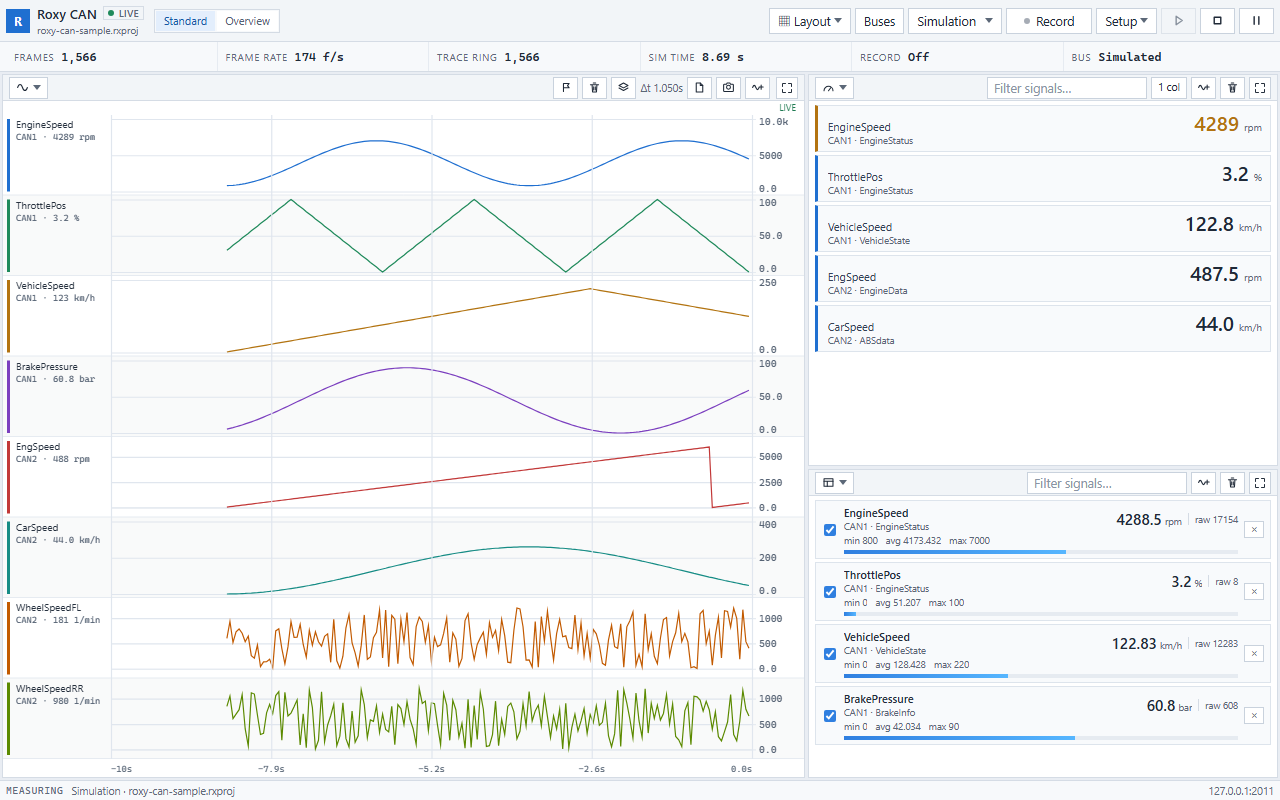
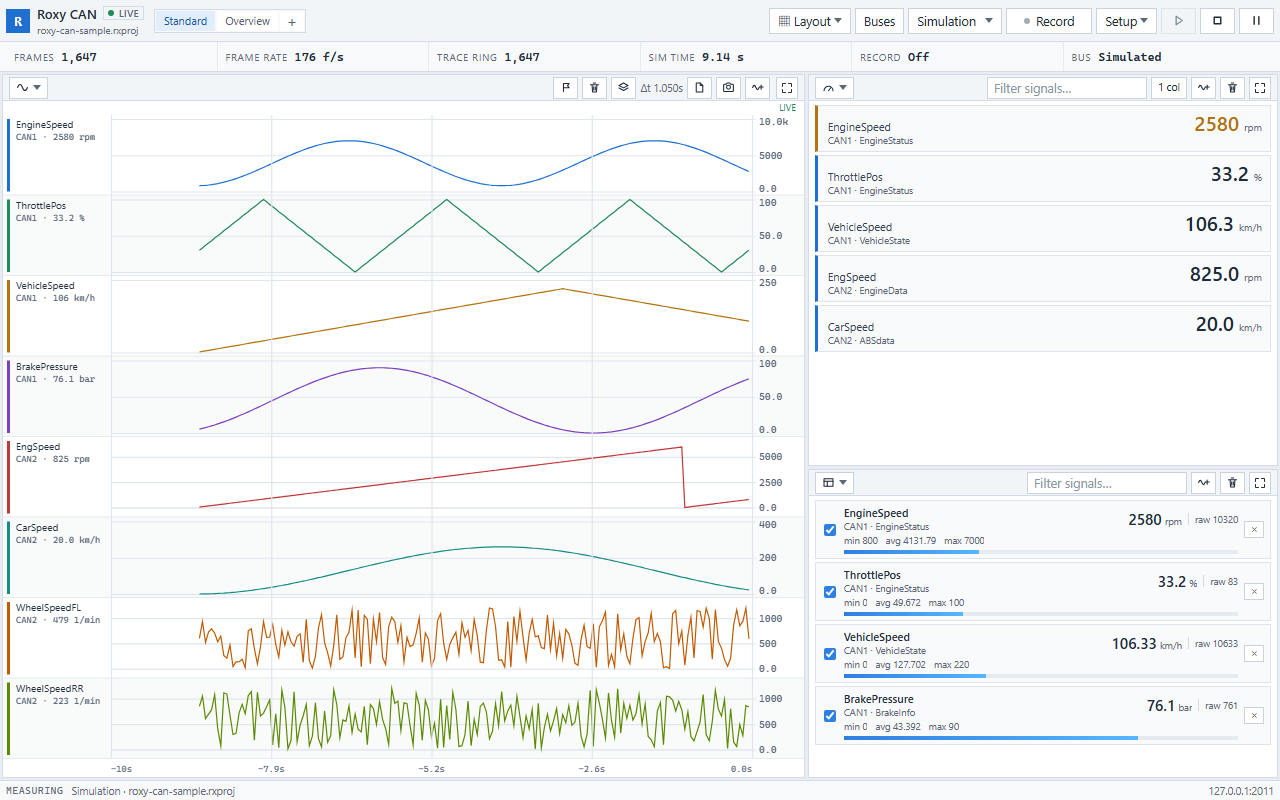
Add a Panel page button and move Edit into the top bar

diff --git a/web/src/app.tsx b/web/src/app.tsx
@@ -141,6 +141,7 @@ import {
 } from "./traceLayout";
 import {
   activePanelPage,
+  addPanelPage,
   addPanelPageFromFile,
   defaultPanelBook,
   exportPanelFile,
@@ -486,6 +487,7 @@ export function App() {
     savedView.panelBook ?? defaultPanelBook(),
   );
   const activePage = activePanelPage(panelBook);
+  const [panelEditing, setPanelEditing] = useState(false);
   // Panel pages only enter the project on Save, so their edits are dirty even
   // when the core's project flag is still clean.
   const [panelDirty, setPanelDirty] = useState(false);
@@ -1846,6 +1848,7 @@ export function App() {
       if (event.altKey && event.shiftKey && key === "p") {
         event.preventDefault();
         setShellMode((old) => (old === "panel" ? "standard" : "panel"));
+        setPanelEditing(false);
         setMaximizedSlot(null);
         return;
       }
@@ -4169,12 +4172,22 @@ export function App() {
 
   const showStandard = () => {
     setShellMode("standard");
+    setPanelEditing(false);
     setMaximizedSlot(null);
   };
 
   const showPanelPage = (id: string) => {
     updatePanelBook(selectPanelPage(panelBook, id));
     setShellMode("panel");
+    setMaximizedSlot(null);
+    setExplorerOpen(false);
+  };
+
+  const newPanelPage = () => {
+    const added = addPanelPage(panelBook);
+    updatePanelBook(added.book);
+    setShellMode("panel");
+    setPanelEditing(true);
     setMaximizedSlot(null);
     setExplorerOpen(false);
   };
@@ -4701,9 +4714,33 @@ export function App() {
               {entry.name}
             </button>
           ))}
+          <button
+            type="button"
+            class="view-add"
+            style={{ padding: "0" }}
+            title="New Panel page"
+            aria-label="New Panel page"
+            onClick={newPanelPage}
+          >
+            +
+          </button>
         </div>
         <div class="actions">
-          {shellMode !== "panel" && (
+          {shellMode === "panel" ? (
+            <button
+              type="button"
+              class={`mini topbar-edit ${panelEditing ? "on" : ""}`}
+              aria-pressed={panelEditing}
+              title={
+                panelEditing
+                  ? "Finish editing and run the Panel"
+                  : "Edit the Panel: move controls and change properties"
+              }
+              onClick={() => setPanelEditing((old) => !old)}
+            >
+              {panelEditing ? "Done" : "Edit"}
+            </button>
+          ) : (
             <MenuButton
               className="top-menu layout-menu"
               menuClass="app-menu-top layout-panel"
@@ -5276,6 +5313,8 @@ export function App() {
             actionNames={pageActionNames}
             view={pageView}
             actionContext={pageActionContext}
+            editing={panelEditing}
+            onEditing={setPanelEditing}
             onBook={updatePanelBook}
             onRun={runPanelAction}
             onToggle={togglePageSysVar}

diff --git a/web/src/components/PagePanel.tsx b/web/src/components/PagePanel.tsx
@@ -9,7 +9,6 @@ import {
   PANEL_MAX_BANDS,
   PANEL_WIDGET_KINDS,
   activePanelPage,
-  addPanelPage,
   addPanelPageFromFile,
   addPanelWidget,
   duplicatePanelPage,
@@ -1629,6 +1628,8 @@ export function PagePanel({
   actionNames,
   view,
   actionContext,
+  editing,
+  onEditing,
   onBook,
   onRun,
   onToggle,
@@ -1644,6 +1645,8 @@ export function PagePanel({
   actionNames: string[];
   view: PanelView;
   actionContext: PanelActionContext;
+  editing: boolean;
+  onEditing: (on: boolean) => void;
   onBook: (book: PanelBook) => void;
   onRun: (widget: PanelButton) => void;
   onToggle: (widget: PanelToggle, on: boolean) => void;
@@ -1653,7 +1656,6 @@ export function PagePanel({
 }) {
   const page = activePanelPage(book);
   const onPage = (next: PanelPage) => onBook(updatePanelPage(book, next));
-  const [editing, setEditing] = useState(false);
   const [fullscreen, setFullscreen] = useState(false);
   const [selected, setSelected] = useState<string | null>(null);
   const [renaming, setRenaming] = useState<{ id: string; name: string } | null>(
@@ -1763,12 +1765,12 @@ export function PagePanel({
       if (selected) {
         setSelected(null);
       } else {
-        setEditing(false);
+        onEditing(false);
       }
     };
     window.addEventListener("keydown", onKey);
     return () => window.removeEventListener("keydown", onKey);
-  }, [editing, selected]);
+  }, [editing, selected, onEditing]);
 
   useEffect(() => {
     if (!fullscreen || editing) return;
@@ -1978,12 +1980,6 @@ export function PagePanel({
     setHistory(EMPTY_HISTORY);
     setClipboard(null);
     setRenaming(null);
-  };
-
-  const newPage = () => {
-    const added = addPanelPage(book);
-    clearPageUi();
-    onBook(added.book);
   };
 
   const openPageMenu = () => {
@@ -2666,13 +2662,6 @@ export function PagePanel({
           )}
           <button
             type="button"
-            class={`mini ${editing ? "on" : ""}`}
-            onClick={() => setEditing((old) => !old)}
-          >
-            {editing ? "Done" : "Edit"}
-          </button>
-          <button
-            type="button"
             class={`mini ${fullscreen ? "on" : ""}`}
             title={fullscreen ? "Exit web fullscreen" : "Fill the browser window"}
             onClick={() => setFullscreen((old) => !old)}
@@ -3001,17 +2990,6 @@ export function PagePanel({
           )}
           {menu.kind === "page" && (
             <>
-              <button
-                type="button"
-                role="menuitem"
-                onClick={() => {
-                  setMenu(null);
-                  newPage();
-                }}
-              >
-                New page
-              </button>
-              <div class="page-menu-sep" role="separator" />
               <button
                 type="button"
                 role="menuitem"

diff --git a/web/src/styles.css b/web/src/styles.css
@@ -405,6 +405,23 @@ select:disabled {
   color: #cfe7ff;
 }
 
+.view-switch .view-add {
+  width: 24px;
+  padding: 0;
+  color: var(--muted);
+  font-size: 15px;
+}
+
+.view-switch .view-add:hover:not(:disabled) {
+  background: rgb(255 255 255 / 6%);
+  color: var(--text, #d9e3ef);
+}
+
+.topbar-edit {
+  height: 26px;
+  padding: 0 10px;
+}
+
 .buses-button {
   display: inline-flex;
   align-items: center;

diff --git a/docs/usage.md b/docs/usage.md
@@ -191,9 +191,9 @@ roxy-can -h                               完整帮助
 
 ## Panel（操作页）
 
-- 顶栏的 **Standard / 页名** 就是模式与页面切换：Standard 一项，后面每个 Panel 页各一项（一页是 `Standard | Overview`，两页就是 `Standard | Overview | Page 2`，共三个标签）。点击页名进入 Panel 并切到该页；键盘 ←/→ 切换（Home/End 到首尾）。画布上方不再另放页签。Edit 下页眉左侧 **⋯** 是页面操作菜单（New page / Rename / Duplicate / Import / Export / Delete；至少保留一页），重命名在页眉就地输入。**含控件的页删除要再点一次确认**（空页直接删），避免误删后撤销不回来。每页有自己的画幅尺寸和控件，切换页面会清空选区、撤销历史和剪贴板，但保留 Edit 模式。
+- 顶栏的 **Standard / 页名** 就是模式与页面切换：Standard 一项，后面每个 Panel 页各一项（一页是 `Standard | Overview`，两页就是 `Standard | Overview | Page 2`，共三个标签）。点击页名进入 Panel 并切到该页；键盘 ←/→ 切换（Home/End 到首尾）。画布上方不再另放页签。顶栏页名后的 **+** 新建一页并直接进入编辑；Edit 下页眉左侧 **⋯** 是当前页的操作菜单（Rename / Duplicate / Import / Export / Delete；至少保留一页），重命名在页眉就地输入。**含控件的页删除要再点一次确认**（空页直接删），避免误删后撤销不回来。每页有自己的画幅尺寸和控件，切换页面会清空选区、撤销历史和剪贴板，但保留 Edit 模式。
 - 顶栏 **Standard / 页名** 进入操作页：固定画布默认 **1280×720**，始终显示 **8px 网格线**；画幅 W×H 在未选中控件时显示于右侧 Panel 属性，按 8px 取整，缩小到会把控件挤出画布时会拒绝；窗口不够大时画布出现滚动条，不缩放、不重排。控件尺寸变化时按钮/数值的字号与内边距按控件大小自适应，长标签省略显示，不需要手工调字号。
-- **Edit** 进入编辑：右侧 **Properties** 栏常驻（栏头显示当前控件类型或 Panel），点控件显示控件属性，点空白显示 **Panel** 属性（画幅 W×H 与控件数），切换选区时画布宽度不变。**+ Add** 菜单添加 Button / Value / Bar / Gauge / Lamp / Toggle / Setpoint，拖动控件移动、拖右下角缩放，位置和尺寸实时吸附网格；最小尺寸按类型，重叠的落点会被拒绝。编辑时控件不触发动作。
+- 顶栏 **Edit / Done**（Panel 模式下占用 Standard 里 Layout 的位置）进入/退出编辑：右侧 **Properties** 栏常驻（栏头显示当前控件类型或 Panel），点控件显示控件属性，点空白显示 **Panel** 属性（画幅 W×H 与控件数），切换选区时画布宽度不变。**+ Add** 菜单添加 Button / Value / Bar / Gauge / Lamp / Toggle / Setpoint，拖动控件移动、拖右下角缩放，位置和尺寸实时吸附网格；最小尺寸按类型，重叠的落点会被拒绝。编辑时控件不触发动作。
 - 选中控件后右侧属性栏按类型编辑：**Button** 的 **On click** 二选一、互斥——**Send message**（一次发一条 CAN / FlexRay / Ethernet / SOME/IP 报文；CAN 可填 raw 或目录报文，目录报文与 FR/ETH 已知帧可按物理值编码；FR 只注入本会话，ETH/SOME/IP 有实时口时从端口发出，否则只注入本会话；SOME/IP 按 service/method 列出 ARXML 字段，数字/字符串/枚举分别输入，没有描述时退回 `name=value`，union 用 `name.$selector`）或 **Script action**（动作名 + 可选数值参数）；**Value** 填 Source（信号 key、`derived:Name` 或 `sysvar:ns::name`）与小数位，只读显示实时值；**Bar / Gauge** 填 Source、最小值/最大值与小数位，按比例填充并同样可用 **Color bands**；**Lamp** 填 Source、点亮阈值（Lit at or above）与点亮颜色，源值达到阈值时亮起；**Toggle** 填系统变量名，显示 ON/OFF 并写 1/0；**Setpoint** 先选 Target（SysVar 或信号），再填目标、小数位与步进（Step），输入后按 Enter/失焦写入，按对应后端的量程夹取，并可带值触发同名脚本动作。**Color bands** 在所有只读控件上一致：按升序添加上限（`≤`）并为每段选 Neutral / OK / Warning / Critical，可再加一条 `above` 兜底最高段，只改数字/填充颜色、不改卡片底色。属性栏里的 **Duplicate** 与 **Delete** 复制/删除控件。
 - 页面文件：Edit 下页眉 **⋯ → Export page** 把当前页下载成 `.rxpanel`（带格式与版本，不含控件 id），**⋯ → Import page…** 在浏览器里读取文件并作为新页面追加（名称自动去重）。导入严格校验画幅、控件类型、最小尺寸与重叠，任何一条不合格都给出提示且不改动现有页面。
 - 编辑快捷键：**Ctrl+C / Ctrl+V** 复制粘贴（自动找空位并选中副本），**Ctrl+Z** 撤销、**Ctrl+Shift+Z** 或 **Ctrl+Y** 重做（工具条右侧是 ↶ / ↷ 图标按钮），**Delete** 删除选中控件。不做手动微调与对齐工具，位置和尺寸都吸附网格。

diff --git a/README.md b/README.md
@@ -26,7 +26,7 @@ Spec / SOME/IP / Write 都是单实例页面，可放进任意槽位。入口与
 - **DBC 解码**：复用报文只解当前那一组；值表显示枚举文本；浮点信号按位模式解码并带类型标记。
 - **帧模型**：经典 CAN、CAN FD（变长载荷至 64 字节、BRS / ESI）、错误帧、远程帧。Trace 的 Flags 列统一给帧类型，错误行与远程行有底色。
 - **观测面板与布局**：Trace、Messages、Messages stats、Rate、Signals、Monitor、Data、State、Bus load、Spec、SOME/IP、Write 都是单实例页面，用页眉菜单放进 Focus / Split / Main + side / Quad 的任意槽位；选一个已在别处的面板会交换两个槽位，Move to 直接移动当前页。Trace/Messages 有独立过滤与选择；Monitor/Data 页眉可按信号、帧、PDU 或总线过滤，行可拖动排序（行序随工程保存）；Data/Signals 可跨总线勾选信号，Signals 还支持 **Read**（只订阅、不画 lane，游标处读数），信号列表按帧收起，帧头 **All / None** 可批量增删可见信号，曲线一次加入超过 8 条会先确认，页眉相机图标把当前图表导出为带游标注的 PNG；Messages 行可展开查看解码信号（按需解码），长帧可先过滤并只渲染前 50 条。
-- **Panel 操作页**：顶栏 **Standard / 页名** 同时做模式和页面切换（Standard 后每个 Panel 页一项，两页就是三个标签）；每页独立画幅与控件；固定画布默认 1280×720、始终显示 8px 网格，Edit 下页眉 **⋯** 菜单新建/复制/重命名/删除页面并改画幅尺寸，用 **+ Add** 菜单添加 Button / Value / Bar / Gauge / Lamp / Toggle / Setpoint 控件，拖动/缩放吸附网格；Button 的 **On click** 二选一——**Send message**（发一条 CAN / FlexRay / Ethernet / SOME/IP 报文；已知帧可按物理值编码；SOME/IP 按 service/method 字段列表填值）或 **Script action**（`on panel_action("…")`，可带数值参数），Value 只读显示信号/派生/SysVar 并可按升序上限给数字分段染色，Bar / Gauge 按 min/max 填充并复用同一套色段，Lamp 在源值达到阈值时点亮（颜色可选），Toggle 写 SysVar 0/1，Setpoint 写 SysVar 或 DBC 信号并按所属后端的量程夹取；页面以 `.rxpanel` 文档存进工程文件，打开工程时自动合并回 Panel；也可单独 **Export** / **Import**（严格校验）。**Fullscreen** 覆盖应用外壳但保持浏览器窗口、画布居中不缩放。
+- **Panel 操作页**：顶栏 **Standard / 页名** 同时做模式和页面切换（Standard 后每个 Panel 页一项，两页就是三个标签），页名后的 **+** 新建页并进入编辑；每页独立画幅与控件；固定画布默认 1280×720、始终显示 8px 网格，**Edit / Done 在 Panel 模式下占用 Standard 里 Layout 的位置**，Edit 下页眉 **⋯** 菜单复制/重命名/删除页面并改画幅尺寸，用 **+ Add** 菜单添加 Button / Value / Bar / Gauge / Lamp / Toggle / Setpoint 控件，拖动/缩放吸附网格；Button 的 **On click** 二选一——**Send message**（发一条 CAN / FlexRay / Ethernet / SOME/IP 报文；已知帧可按物理值编码；SOME/IP 按 service/method 字段列表填值）或 **Script action**（`on panel_action("…")`，可带数值参数），Value 只读显示信号/派生/SysVar 并可按升序上限给数字分段染色，Bar / Gauge 按 min/max 填充并复用同一套色段，Lamp 在源值达到阈值时点亮（颜色可选），Toggle 写 SysVar 0/1，Setpoint 写 SysVar 或 DBC 信号并按所属后端的量程夹取；页面以 `.rxpanel` 文档存进工程文件，打开工程时自动合并回 Panel；也可单独 **Export** / **Import**（严格校验）。**Fullscreen** 覆盖应用外壳但保持浏览器窗口、画布居中不缩放。
 - **Trace**：虚拟滚动（几十万行的过滤结果照样流畅），payload 字节搜索、信号值条件（`Name>10`）、精确地址（`id:1AB` / `slot:13`）、时间范围、列头排序、右键"Filter this ID"、行游标 A/B 与 Δt 读数、点一行选中后用 ↑/↓ 走行、Ctrl+C 复制；窄槽位自动隐藏低优先列。
 - **总线负载与规格监视**：按总线给线上一帧占时加权的负载与帧率（1 s 滚动窗）、60 s 负载曲线、错误帧计数；Specification 把实测流量与数据库声明逐条对账——Unknown / Dlc / Cycle / Missing 四类判定，容差与宽限可调，可导出 CSV。
 - **Interactive Generator（节点中心）**：DBC 报文按声明周期发送，按信号拖物理值或直接改 hex；每个信号可添加 Ramp / Sine / Step / Random / Triangle / Counter 激励。条目在 **Setup → Generator…** 里按总线编辑，行上标出所属 DBC 节点；新建默认不发送，发不发逐条由你决定，信号激励用可搜索列表添加。
